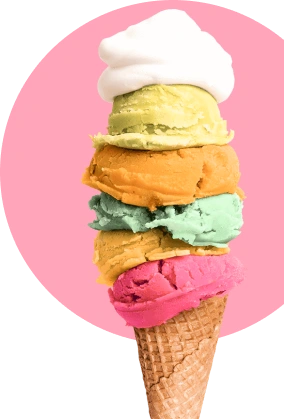
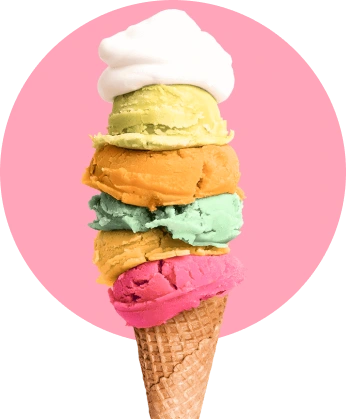
final bugfix/hero
заменил изображение ice-cream_sm   для mobile (отображение полного круга для responsive); в outlets вместо 2-х <p>, вложил <p<span>>;  верстка валидная

diff --git a/src/sass/_hero.scss b/src/sass/_hero.scss
@@ -223,6 +223,7 @@
 
 .outlets__item {
     position: relative;
+    
     padding-top: 2px;
     padding-right: 10px;
 
@@ -262,27 +263,6 @@
     
 }
 
-.outlets__amount {
-    font-family: $headline-font;
-    font-weight: 400;
-    font-size: 28px;
-    line-height: 1.14;
-    
-    letter-spacing: 0.04em;
-    text-transform: uppercase;
-    
-     color: $headline-color;
-
-    @media screen and (min-width: 1280px) {
-        font-size: 46px;
-        line-height: 1.15;
-
-        &:not(:last-child) {
-            margin-bottom: 2px;
-        }
-    } 
-}
-
 .outlets__desc {
     font-family: $text-font;
     font-weight: 400;
@@ -295,6 +275,27 @@
         font-size: 14px;
         line-height: 1.29;
     }
+}
+
+.outlets__amount {
+    display: block;
+
+    font-family: $headline-font;
+    font-size: 28px;
+    line-height: 1.14;
+    
+    letter-spacing: 0.04em;
+    text-transform: uppercase;
+    
+     color: $headline-color;
+
+    @media screen and (min-width: 1280px) {
+        margin-bottom: 2px;
+        
+        font-size: 46px;
+        line-height: 1.15;
+        
+    } 
 }
 
 // Hero Picture
@@ -320,7 +321,7 @@
 
      &--ice-cream {
         @media screen and (max-width: 767px) {
-            right: 0;
+            right: -62px;
             bottom: 0;
             
             z-index: 1;

diff --git a/src/partials/hero.html b/src/partials/hero.html
@@ -26,12 +26,10 @@
 
     <ul class="outlets">
       <li class="outlets__item">
-        <p class="outlets__amount">16</p>
-        <p class="outlets__desc">cafes</p>
+        <p class="outlets__desc"><span class="outlets__amount">16</span>cafes</p>
       </li>
       <li class="outlets__item">
-        <p class="outlets__amount">23</p>
-        <p class="outlets__desc">food trucks</p>
+        <p class="outlets__desc"><span class="outlets__amount">23</span>food trucks</p>
       </li>
     </ul>
 
